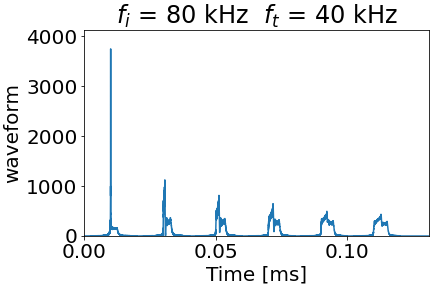
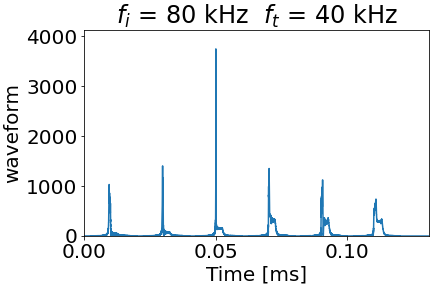
?

diff --git a/Simulation/CrosscorLPM/CrosscorLPM.py b/Simulation/CrosscorLPM/CrosscorLPM.py
@@ -22,7 +22,7 @@ def Initialize():
     Fi = 80000    #: initial frequency [Hz]
     Ft = 40000  #: terminal frequency [Hz]
     RobotNum=6
-    Robotfreq=[40000,42000,44000,46000,48000,50000]
+    Robotfreq=[38000,39000,40000,41000,42000,43000]
     Duration =0.0075 #LPM_duration [s]
     Duration_CF =0.0025 # CF_duration [s]
     Duration_mimic=0.01#mimicFM_duration[s]
